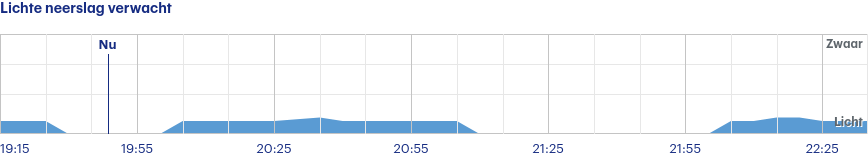
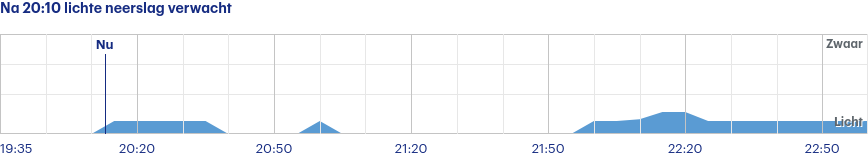
Latest scraping buienradar: Fri Aug 11 18:00:22 UTC 2023

diff --git a/scrapes/buienradar/buienradar-jette-3-uur.md b/scrapes/buienradar/buienradar-jette-3-uur.md
@@ -1,4 +1,4 @@
-Lichte neerslag verwacht
+Na 20:10 lichte neerslag verwacht
 
 ![](buienradar-jette-3-uur.png)
 
